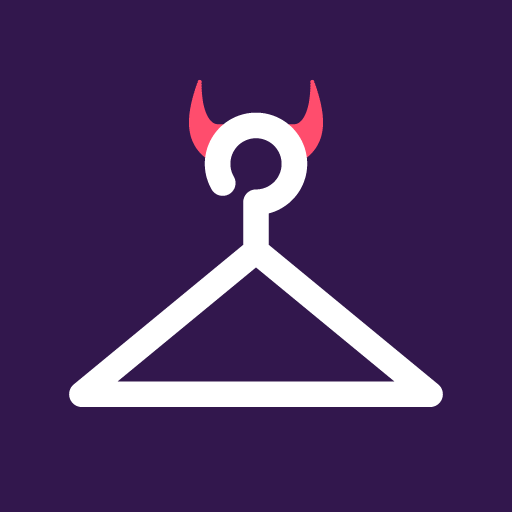
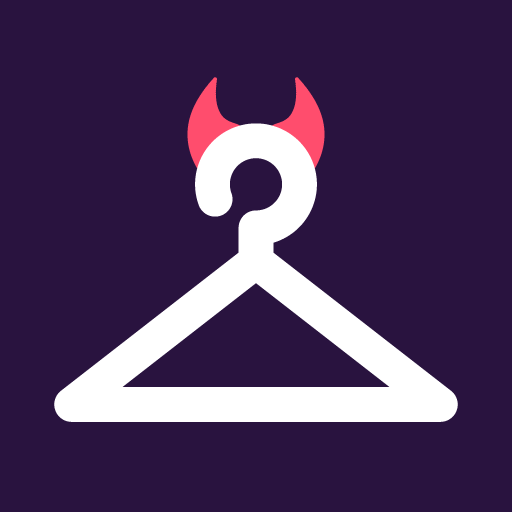
Add files via upload

diff --git a/tests/page.test.js b/tests/page.test.js
@@ -23,3 +23,14 @@ test('the page, the home-screen icon and the app start with the same name', () =
 test('the version is a date', () => {
   assert.match(VERSION, /^\d{4}-\d{2}-\d{2}$/);
 });
+
+test('the app, the phone bars, the splash screen and the icons share one background color', () => {
+  const bg = read('css/app.css').match(/--bg: (#[0-9a-f]{6})/i)[1].toLowerCase();
+  assert.equal(bg, '#29133f');
+  assert.equal(read('index.html').match(/<meta name="theme-color" content="([^"]+)"/)[1].toLowerCase(), bg);
+  const manifest = JSON.parse(read('manifest.webmanifest'));
+  assert.equal(manifest.background_color.toLowerCase(), bg);
+  assert.equal(manifest.theme_color.toLowerCase(), bg);
+  const [r, g, b] = read('scripts/make-icons.mjs').match(/const BACKGROUND = \[0x(\w\w), 0x(\w\w), 0x(\w\w)\]/).slice(1);
+  assert.equal(`#${r}${g}${b}`.toLowerCase(), bg);
+});

diff --git a/js/app.js b/js/app.js
@@ -40,7 +40,7 @@ const storage = {
 };
 
 const state = {
-  screen: 'signin',
+  screen: null, // nothing shown yet, so the first screen fades in too
   source: null,
   data: null,
   saver: null,
@@ -396,10 +396,20 @@ function render() {
   SCREENS[state.screen]();
 }
 
+// Switches screens. A new screen fades in; showing the same one again (the next piece to
+// label) doesn't, and neither do taps that only redraw the screen (render).
 function show(screen) {
+  const isNew = screen !== state.screen;
   state.screen = screen;
   render();
   window.scrollTo(0, 0);
+  if (isNew) fadeIn();
+}
+
+function fadeIn() {
+  root.classList.remove('screen-in');
+  void root.offsetWidth; // lets the animation start again
+  root.classList.add('screen-in');
 }
 
 // Home-screen install and fast opening (online only; skipped on the local test server).

diff --git a/css/app.css b/css/app.css
@@ -1,6 +1,6 @@
 :root {
   color-scheme: dark;
-  --bg: #32174d; /* Russian violet */
+  --bg: #29133f; /* Russian violet, a little darker */
   --surface: #432762;
   --text: #f7f0fb;
   --muted: #cdbbdc;
@@ -26,6 +26,16 @@ body {
   background: var(--bg);
   color: var(--text);
   font: 16px/1.45 system-ui, -apple-system, "Segoe UI", Roboto, sans-serif;
+}
+
+/* A new screen fades in (show() in app.js). */
+@keyframes screen-in {
+  from { opacity: 0; transform: translateY(8px); }
+  to { opacity: 1; transform: none; }
+}
+#app.screen-in { animation: screen-in 0.3s ease-out; }
+@media (prefers-reduced-motion: reduce) {
+  #app.screen-in { animation: none; }
 }
 
 #app {

diff --git a/index.html b/index.html
@@ -4,7 +4,7 @@
   <meta charset="utf-8">
   <meta name="viewport" content="width=device-width, initial-scale=1, maximum-scale=1, user-scalable=no, viewport-fit=cover">
   <title>lil evil wardrobe</title>
-  <meta name="theme-color" content="#32174d">
+  <meta name="theme-color" content="#29133f">
   <meta name="apple-mobile-web-app-capable" content="yes">
   <meta name="apple-mobile-web-app-title" content="lil evil wardrobe">
   <link rel="manifest" href="manifest.webmanifest">

diff --git a/sw.js b/sw.js
@@ -1,7 +1,7 @@
 // Keeps a copy of the app's own files so it opens fast from the home screen.
 // Each open shows the saved copy and quietly fetches a fresh one for next time.
 // Raise the number in CACHE_NAME to drop the old copy at once (see README, "Put it online").
-const CACHE_NAME = 'outfit-picker-v5';
+const CACHE_NAME = 'outfit-picker-v6';
 
 const APP_FILES = [
   './',
